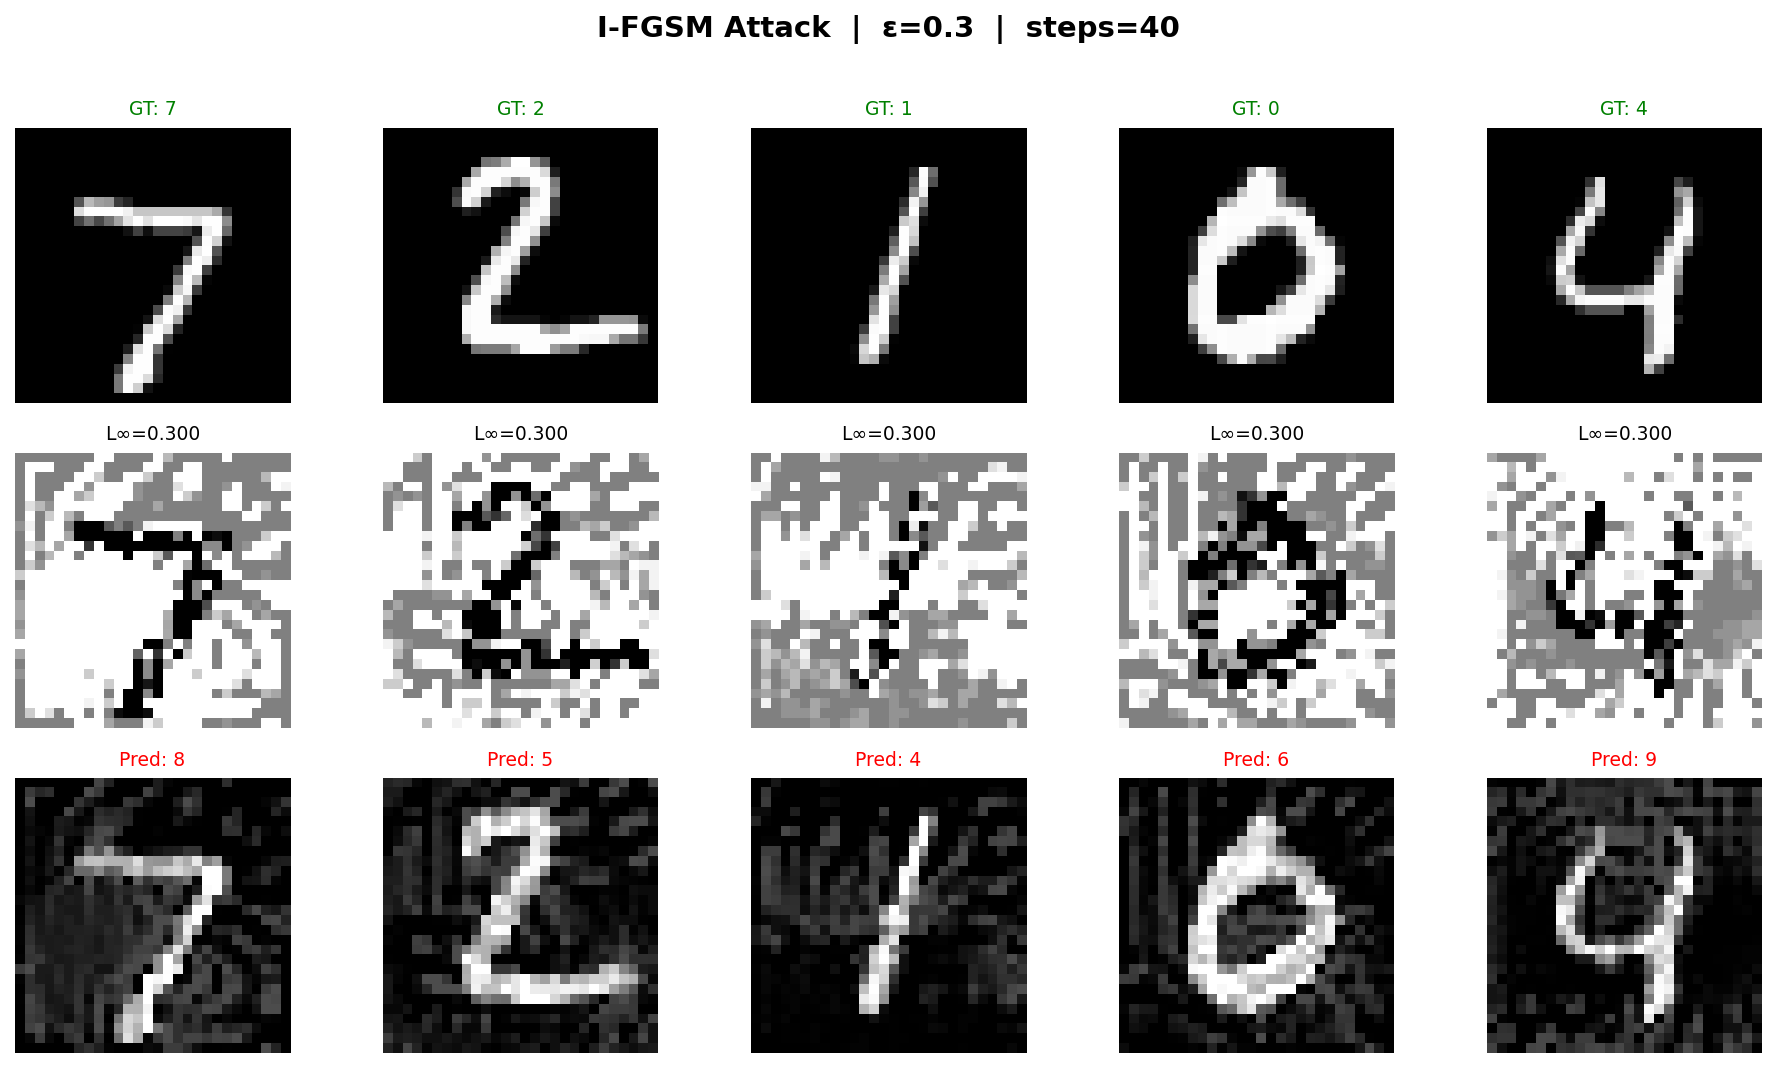
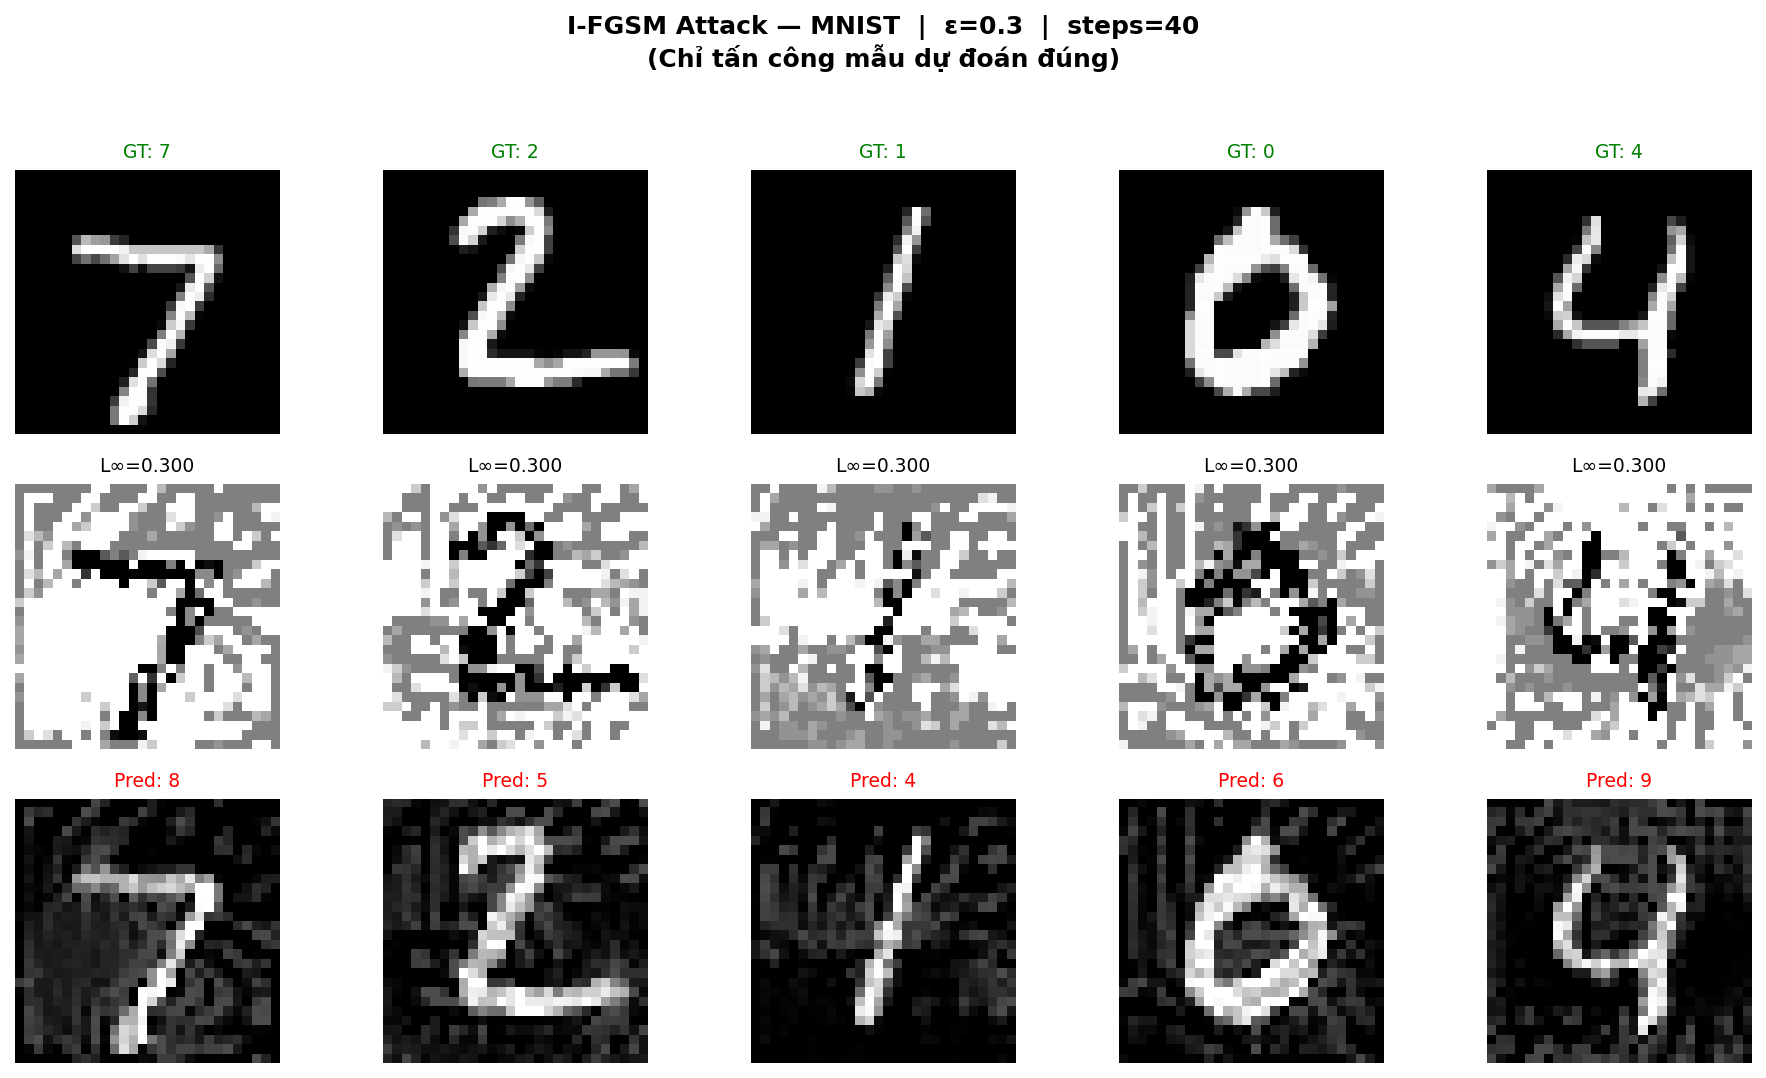
figure plot + comparing epsilons results
- fgsm_asr / ifgsm_asr / asr (Attack Success Rate) — báo cáo trong console và lưu vào JSON log
  - fgsm_time_s / ifgsm_time_s / attack_time_s — thời gian tấn công mỗi epsilon/step count
  - exp3_pred_probs_{dataset}.png — bar chart softmax probability trước/sau tấn công cho từng mẫu

diff --git a/utils/visualization.py b/utils/visualization.py
@@ -235,6 +235,7 @@ def plot_accuracy_vs_steps(
         ha="center", fontsize=9, color="gray",
     )
     ax.set_xticks(steps)
+    ax.set_ylim(0, 105)
     ax.legend(fontsize=10)
     ax.grid(True, alpha=0.3)
 
@@ -243,7 +244,99 @@ def plot_accuracy_vs_steps(
 
 
 # ─────────────────────────────────────────────────────────────
-# 4. Training history
+# 4. Prediction probability bar chart (trước và sau tấn công)
+# ─────────────────────────────────────────────────────────────
+
+def plot_prediction_probs(
+    model        : "torch.nn.Module",
+    original     : "torch.Tensor",
+    adversarial  : "torch.Tensor",
+    true_labels  : List[int],
+    class_names  : Optional[List[str]] = None,
+    dataset_name : str                 = "",
+    n_cols       : int                 = 5,
+    save_path    : Optional[str]       = None,
+) -> None:
+    """
+    Với mỗi mẫu, vẽ bar chart xác suất softmax trước (xanh) và sau (đỏ) tấn công.
+    Cột đúng (true label) được đánh dấu bằng viền đậm.
+
+    Args:
+        model       : model đã eval
+        original    : ảnh gốc  [N, C, H, W]
+        adversarial : ảnh đối kháng [N, C, H, W]
+        true_labels : nhãn thực [N]
+        class_names : tên lớp (tuỳ chọn)
+        dataset_name: tên dataset (cho tiêu đề)
+        n_cols      : số mẫu hiển thị
+        save_path   : đường dẫn lưu file
+    """
+    import torch.nn.functional as F
+
+    model.eval()
+    n     = min(n_cols, original.size(0))
+    device = next(model.parameters()).device
+
+    with torch.no_grad():
+        orig_logits = model(original[:n].to(device))
+        adv_logits  = model(adversarial[:n].to(device))
+
+    orig_probs = F.softmax(orig_logits, dim=1).cpu().numpy()
+    adv_probs  = F.softmax(adv_logits,  dim=1).cpu().numpy()
+
+    num_classes = orig_probs.shape[1]
+    x = np.arange(num_classes)
+    labels = class_names if class_names else [str(i) for i in range(num_classes)]
+
+    fig, axes = plt.subplots(2, n, figsize=(2.8 * n, 6), sharey=False)
+    if n == 1:
+        axes = axes.reshape(2, 1)
+
+    ds_title = f" — {dataset_name}" if dataset_name else ""
+    fig.suptitle(
+        f"Xác suất dự đoán trước & sau I-FGSM{ds_title}",
+        fontsize=13, fontweight="bold",
+    )
+
+    for col in range(n):
+        true_cls = true_labels[col]
+        orig_pred = int(np.argmax(orig_probs[col]))
+        adv_pred  = int(np.argmax(adv_probs[col]))
+
+        for row, (probs, pred, row_label, color) in enumerate([
+            (orig_probs[col], orig_pred, "Gốc",        "steelblue"),
+            (adv_probs[col],  adv_pred,  "Đối kháng",  "tomato"),
+        ]):
+            ax = axes[row, col]
+            bars = ax.bar(x, probs, color=color, alpha=0.75, width=0.7)
+
+            # Đánh dấu true label bằng viền đen
+            bars[true_cls].set_edgecolor("black")
+            bars[true_cls].set_linewidth(2.5)
+
+            # Highlight predicted bar
+            bars[pred].set_alpha(1.0)
+
+            ax.set_xticks(x)
+            ax.set_xticklabels(labels, fontsize=7, rotation=45, ha="right")
+            ax.set_ylim(0, 1.05)
+            ax.set_yticks([0, 0.5, 1.0])
+            ax.tick_params(axis="y", labelsize=7)
+
+            pred_color = "green" if pred == true_cls else "red"
+            ax.set_title(
+                f"{row_label}: {labels[pred]} ({probs[pred]*100:.1f}%)",
+                fontsize=8, color=pred_color, fontweight="bold",
+            )
+            if col == 0:
+                ax.set_ylabel("P(class)", fontsize=8)
+
+    plt.tight_layout()
+    _save_or_show(fig, save_path or os.path.join(SAVE_DIR, "prediction_probs.png"))
+
+
+# ─────────────────────────────────────────────────────────────
+# 5. Training history
 # ─────────────────────────────────────────────────────────────
 
 def plot_training_history(

diff --git a/utils/evaluator.py b/utils/evaluator.py
@@ -9,6 +9,7 @@ Flow 2 pha:
              → đo accuracy giảm còn bao nhiêu
 """
 
+import time
 import torch
 import torch.nn as nn
 from torch.utils.data import DataLoader
@@ -144,6 +145,7 @@ class AdversarialEvaluator:
                 clip_max = self.clip_max,
             )
             fgsm_surv = ifgsm_surv = 0
+            fgsm_time = ifgsm_time = 0.0
 
             for i in tqdm(
                 range(0, n_correct, batch_sz),
@@ -153,36 +155,47 @@ class AdversarialEvaluator:
                 lbls = labels[i : i + batch_sz]
 
                 # FGSM (1 bước)
+                t0 = time.perf_counter()
                 adv_f = fgsm_attack(
                     self.model, imgs, lbls, eps,
                     self.clip_min, self.clip_max,
                 )
+                fgsm_time += time.perf_counter() - t0
                 with torch.no_grad():
                     fgsm_surv += (self.model(adv_f).argmax(1) == lbls).sum().item()
 
                 # I-FGSM (nhiều bước)
+                t0 = time.perf_counter()
                 adv_i = attacker(imgs, lbls)
+                ifgsm_time += time.perf_counter() - t0
                 with torch.no_grad():
                     ifgsm_surv += (self.model(adv_i).argmax(1) == lbls).sum().item()
 
             fgsm_acc  = 100.0 * fgsm_surv  / total
             ifgsm_acc = 100.0 * ifgsm_surv / total
+            # ASR = % mẫu đúng bị đánh lừa thành công
+            fgsm_asr  = 100.0 * (n_correct - fgsm_surv)  / n_correct
+            ifgsm_asr = 100.0 * (n_correct - ifgsm_surv) / n_correct
 
             r = {
-                "epsilon"    : eps,
-                "total_test" : total,
-                "n_correct"  : n_correct,
-                "clean_acc"  : clean_acc,
-                "fgsm_acc"   : fgsm_acc,
-                "ifgsm_acc"  : ifgsm_acc,
-                "fgsm_drop"  : clean_acc - fgsm_acc,
-                "ifgsm_drop" : clean_acc - ifgsm_acc,
+                "epsilon"      : eps,
+                "total_test"   : total,
+                "n_correct"    : n_correct,
+                "clean_acc"    : clean_acc,
+                "fgsm_acc"     : fgsm_acc,
+                "ifgsm_acc"    : ifgsm_acc,
+                "fgsm_drop"    : clean_acc - fgsm_acc,
+                "ifgsm_drop"   : clean_acc - ifgsm_acc,
+                "fgsm_asr"     : fgsm_asr,
+                "ifgsm_asr"    : ifgsm_asr,
+                "fgsm_time_s"  : round(fgsm_time, 3),
+                "ifgsm_time_s" : round(ifgsm_time, 3),
             }
             results.append(r)
             print(
                 f"  ε={eps:.3f} | Clean={clean_acc:.2f}% → "
-                f"FGSM={fgsm_acc:.2f}% (↓{r['fgsm_drop']:.2f}%) | "
-                f"I-FGSM={ifgsm_acc:.2f}% (↓{r['ifgsm_drop']:.2f}%)"
+                f"FGSM={fgsm_acc:.2f}% (ASR={fgsm_asr:.1f}%, {fgsm_time:.1f}s) | "
+                f"I-FGSM={ifgsm_acc:.2f}% (ASR={ifgsm_asr:.1f}%, {ifgsm_time:.1f}s)"
             )
 
         return results
@@ -236,6 +249,7 @@ class AdversarialEvaluator:
                 clip_max = self.clip_max,
             )
             survived = 0
+            attack_time = 0.0
 
             for i in tqdm(
                 range(0, n_correct, batch_sz),
@@ -243,24 +257,29 @@ class AdversarialEvaluator:
             ):
                 imgs = images[i : i + batch_sz]
                 lbls = labels[i : i + batch_sz]
+                t0   = time.perf_counter()
                 adv  = attacker(imgs, lbls)
+                attack_time += time.perf_counter() - t0
                 with torch.no_grad():
                     survived += (self.model(adv).argmax(1) == lbls).sum().item()
 
-            adv_acc = 100.0 * survived / total
+            adv_acc  = 100.0 * survived / total
+            asr      = 100.0 * (n_correct - survived) / n_correct
             r = {
-                "num_steps"  : steps,
-                "total_test" : total,
-                "n_correct"  : n_correct,
-                "clean_acc"  : clean_acc,
-                "adv_acc"    : adv_acc,
-                "acc_drop"   : clean_acc - adv_acc,
+                "num_steps"   : steps,
+                "total_test"  : total,
+                "n_correct"   : n_correct,
+                "clean_acc"   : clean_acc,
+                "adv_acc"     : adv_acc,
+                "acc_drop"    : clean_acc - adv_acc,
+                "asr"         : asr,
+                "attack_time_s": round(attack_time, 3),
             }
             results.append(r)
             print(
                 f"  steps={steps:3d} | "
                 f"Clean={clean_acc:.2f}% → I-FGSM={adv_acc:.2f}% "
-                f"(↓{r['acc_drop']:.2f}%)"
+                f"(ASR={asr:.1f}%, {attack_time:.1f}s)"
             )
 
         return results

diff --git a/experiments/exp3_visualize.py b/experiments/exp3_visualize.py
@@ -24,7 +24,11 @@ import yaml
 from models              import SimpleCNN
 from attacks.ifgsm       import IFGSMAttack
 from utils.data_loader   import get_dataloaders, get_in_channels, get_input_size
-from utils.visualization import plot_adversarial_examples, plot_loss_evolution
+from utils.visualization import (
+    plot_adversarial_examples,
+    plot_loss_evolution,
+    plot_prediction_probs,
+)
 
 MNIST_CLASSES   = [str(i) for i in range(10)]
 CIFAR10_CLASSES = [
@@ -127,6 +131,18 @@ def run(config_path: str = "../configs/config.yaml", dataset: str = None):
         loss_history = attacker.last_stats["loss_history"],
         epsilon      = epsilon,
         save_path    = os.path.join(fig_dir, f"exp3_loss_evolution_{ds_name.lower()}.png"),
+    )
+
+    # ── Vẽ xác suất dự đoán trước/sau tấn công ────────────────
+    plot_prediction_probs(
+        model        = model,
+        original     = correct_images[:n_show],
+        adversarial  = adv_images[:n_show],
+        true_labels  = correct_labels[:n_show].tolist(),
+        class_names  = class_names,
+        dataset_name = ds_name,
+        n_cols       = n_show,
+        save_path    = os.path.join(fig_dir, f"exp3_pred_probs_{ds_name.lower()}.png"),
     )
 
     print(f"\n[Exp3 — {ds_name}] Hoàn tất!")

diff --git a/experiments/exp2_steps.py b/experiments/exp2_steps.py
@@ -72,7 +72,8 @@ def run(config_path: str = "../configs/config.yaml", dataset: str = None):
 
     # ── Đánh giá (flow 2 pha) ─────────────────────────────────
     evaluator  = AdversarialEvaluator(model, device=device)
-    epsilon    = cfg["attack"]["epsilon"]
+    # Dùng steps_epsilon (nhỏ hơn attack.epsilon) để thấy rõ hiệu ứng số bước
+    epsilon    = cfg["experiment"].get("steps_epsilon", cfg["attack"]["epsilon"])
     steps_list = cfg["experiment"]["steps_list"]
 
     results = evaluator.evaluate_steps(